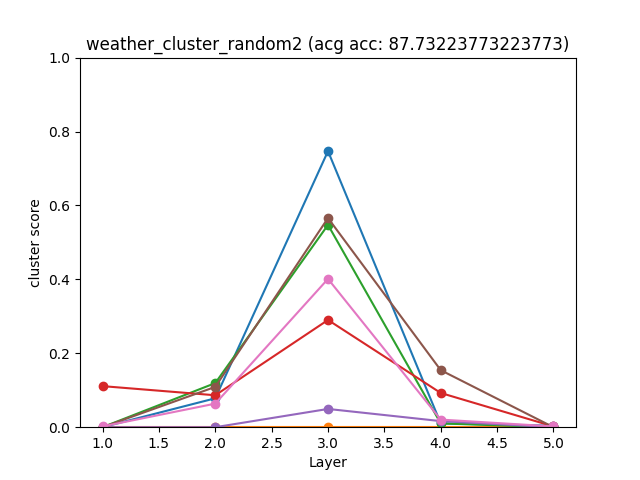
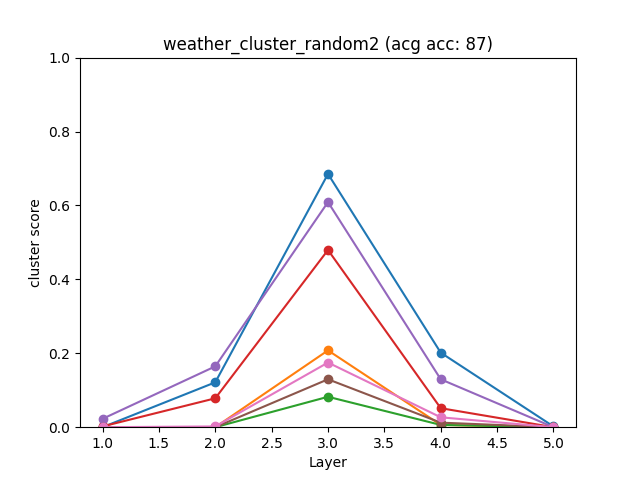
plotting ++

diff --git a/main.py b/main.py
@@ -6,72 +6,73 @@ from src.CONSTS import *
 
 
 def main():
-    image_data_path = WEATHER_PATH
+    image_data_path = BALLS_PATH
 
     # The main class must be the first in this list:
-    classes = WEATHER_CLASSES
+    classes = BALLS_CLASSES
 
     model_scores = []
 
     # Iterate these paths
     concept_data_paths = [
-        RANDOM_2_IMAGES_PATH,
+        # RANDOM_2_IMAGES_PATH,
         ORANGE_PATH,
-        COLORS_PATH + "brown",
-        COLORS_PATH + "violet",
+        COLORS_PATH + "/violet",
+        # COLORS_PATH + "/white",
         CIRCLES_IMAGES_PATH,
-        CIRCLES_FILLED_IMAGES_PATH,
+        # CIRCLES_FILLED_IMAGES_PATH,
         PARQUET_IMAGES_PATH,
     ]
 
-    significance_type = "cluster"
+    for significance_type in ["cluster", "tcav"]:
 
-    for concept_data_path in concept_data_paths:
+        for concept_data_path in concept_data_paths:
 
-        print("Concept:", concept_data_path)
+            print("Concept:", concept_data_path)
 
-        accuracies = []
+            accuracies = []
 
-        for i in range(7):
+            for i in range(4):
 
-            classifier = Classifier(batch_size=10, num_of_classes=len(classes))
-            classifier.set_optim(lr=0.00002, weight_decay=0.003)
-            classifier.load_train_test_data(classes, image_data_path)
+                classifier = Classifier(
+                    batch_size=10, num_of_classes=len(classes))
+                classifier.set_optim(lr=0.00002, weight_decay=0.003)
+                classifier.load_train_test_data(classes, image_data_path)
 
-            acc = classifier.train(num_epochs=20, print_progress=True)
+                acc = classifier.train(num_epochs=20, print_progress=False)
 
-            significance_scores = get_concept_significance_scores(
-                classifier.network,
-                num_of_layers=5,
-                concept_images_path=concept_data_path,
-                data_path=image_data_path,
-                main_class_name=classes[0],
-                significance_type=significance_type,
+                significance_scores = get_concept_significance_scores(
+                    classifier.network,
+                    num_of_layers=5,
+                    concept_images_path=concept_data_path,
+                    data_path=image_data_path,
+                    main_class_name=classes[0],
+                    significance_type=significance_type,
+                )
+
+                model_scores.append(significance_scores)
+                print("acc:", acc, "; scores:", significance_scores)
+
+                accuracies.append(acc)
+
+            avg_acc = sum(accuracies) / len(accuracies)
+
+            file_name = (
+                image_data_path.split("/")[-1]
+                + "_"
+                + significance_type
+                + "_"
+                + concept_data_path.split("/")[-1].split(".")[0]
             )
-
-            model_scores.append(significance_scores)
-            print("acc:", acc, "; scores:", significance_scores)
-
-            accuracies.append(acc)
-
-        avg_acc = sum(accuracies) / len(accuracies)
-
-        file_name = (
-            image_data_path.split("/")[-1]
-            + "_"
-            + significance_type
-            + "_"
-            + concept_data_path.split("/")[-1].split(".")[0]
-        )
-        title = file_name + " (acg acc: " + str(avg_acc) + ")"
-        save_path = GRAPH_PATH + "/" + file_name
-        line_graph(
-            model_scores,
-            range(1, 6),
-            title,
-            xlabel=significance_type + " score",
-            save_path=save_path,
-        )
+            title = file_name + " (avg acc: " + str(int(avg_acc)) + ")"
+            save_path = GRAPH_PATH + "/" + file_name
+            line_graph(
+                model_scores,
+                range(1, 6),
+                title,
+                xlabel=significance_type + " score",
+                save_path=save_path,
+            )
 
 
 if __name__ == "__main__":

diff --git a/src/plotting.py b/src/plotting.py
@@ -1,5 +1,4 @@
 import matplotlib.pyplot as plt
-import seaborn as sns
 
 from src.CONSTS import DATA_PATH
 
@@ -19,7 +18,9 @@ def line_graph(
     plt.ylim(ylim)
     if save_path:
         plt.savefig(save_path)
-    plt.show()
+    plt.clf()
+    plt.cla()
+    # plt.show()
 
 
 if __name__ == "__main__":

diff --git a/src/CONSTS.py b/src/CONSTS.py
@@ -34,8 +34,8 @@ BALLS_CLASSES = [
     "soccer ball",
     "volley ball",
     "water polo ball",
-    "bowling ball",
-    "golf ball",
+    #"bowling ball",
+    #"golf ball",
 ]
 
 WEATHER_CLASSES = ["snow", "sandstorm", "dew", "lightning", "rainbow"]
